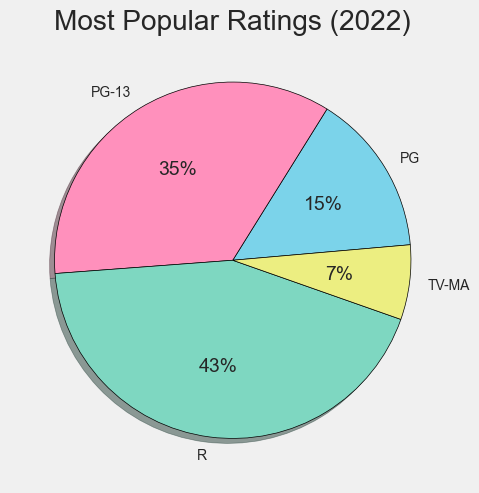
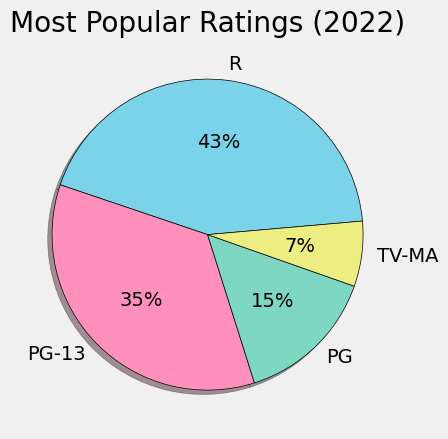
Pie charts are now dynamic instead of hard coded

diff --git a/movie_results.py b/movie_results.py
@@ -34,13 +34,13 @@ pieColorsArr = [
 
 def main(inputFilePath, year):
     df = pd.read_csv(inputFilePath)
-    scores(inputFilePath, df, year)
-    months(inputFilePath, df, year)
+    # scores(inputFilePath, df, year)
+    # months(inputFilePath, df, year)
     ratings(inputFilePath, df, year)
-    numOfRatings(inputFilePath, df, year)
-    dateAndRatings(inputFilePath, df, year)
-    runtimeScores(inputFilePath, df, year)
-    budgetBoxOffice(inputFilePath, df, year)
+    # numOfRatings(inputFilePath, df, year)
+    # dateAndRatings(inputFilePath, df, year)
+    # runtimeScores(inputFilePath, df, year)
+    # budgetBoxOffice(inputFilePath, df, year)
 
 
 def budgetBoxOffice(inputFilePath, df, year):
@@ -183,22 +183,18 @@ def ratings(inputFilePath, df, year):
     ratingCounter = Counter()
     for rating in ratingColumn:
         ratingCounter[rating] += 1
-    ratings = list(ratingCounter.keys())
-    counts = list(ratingCounter.values())
-    newRatings = []
-    newCounts = []
-    for idx, count in enumerate(counts):
-        cutoff = 5
-        if year == "All":
-            cutoff = 15
-        if count > cutoff:
-            newRatings.append(ratings[idx])
-            newCounts.append(counts[idx])
+    countList = list(ratingCounter.keys())
+    ratings = np.array(countList, dtype="U")
+    counts = np.fromiter(ratingCounter.values(), dtype=int)
+    sortedIndices = np.argsort(counts)
+    indicesRev = np.flip(sortedIndices)
+    sortedRatings = ratings[indicesRev]
+    sortedCounts = counts[indicesRev]
     plt.figure()
     plt.style.use("fivethirtyeight")
     plt.pie(
-        newCounts,
-        labels=newRatings,
+        sortedCounts[:4],
+        labels=sortedRatings[:4],
         wedgeprops={"edgecolor": "black"},
         colors=pieColorsArr,
         shadow=True,
